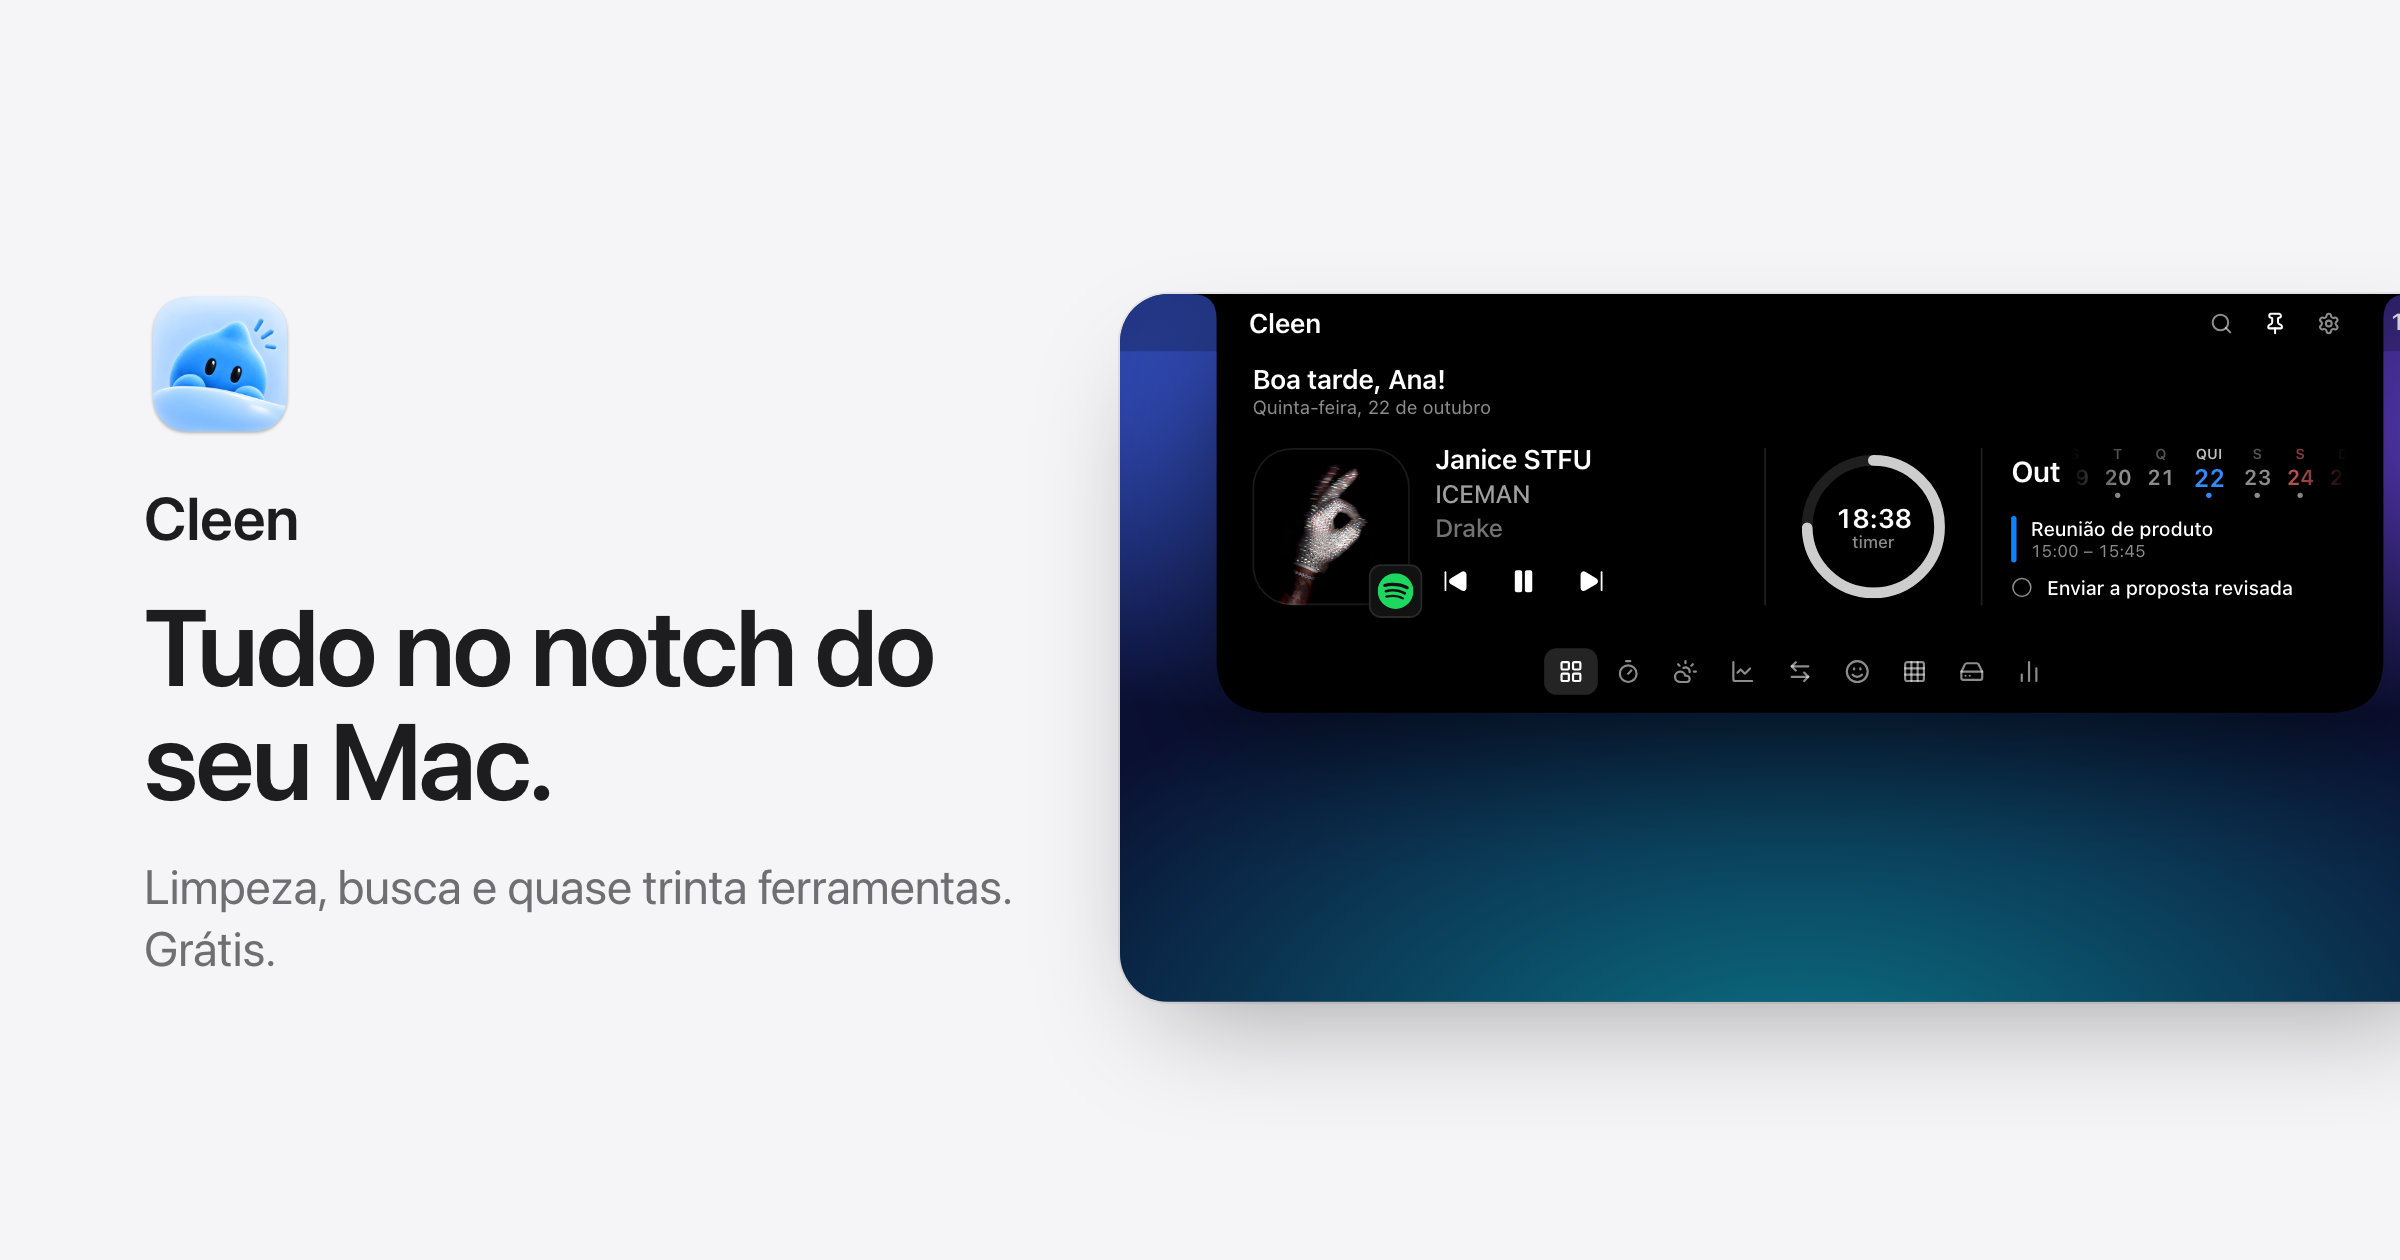
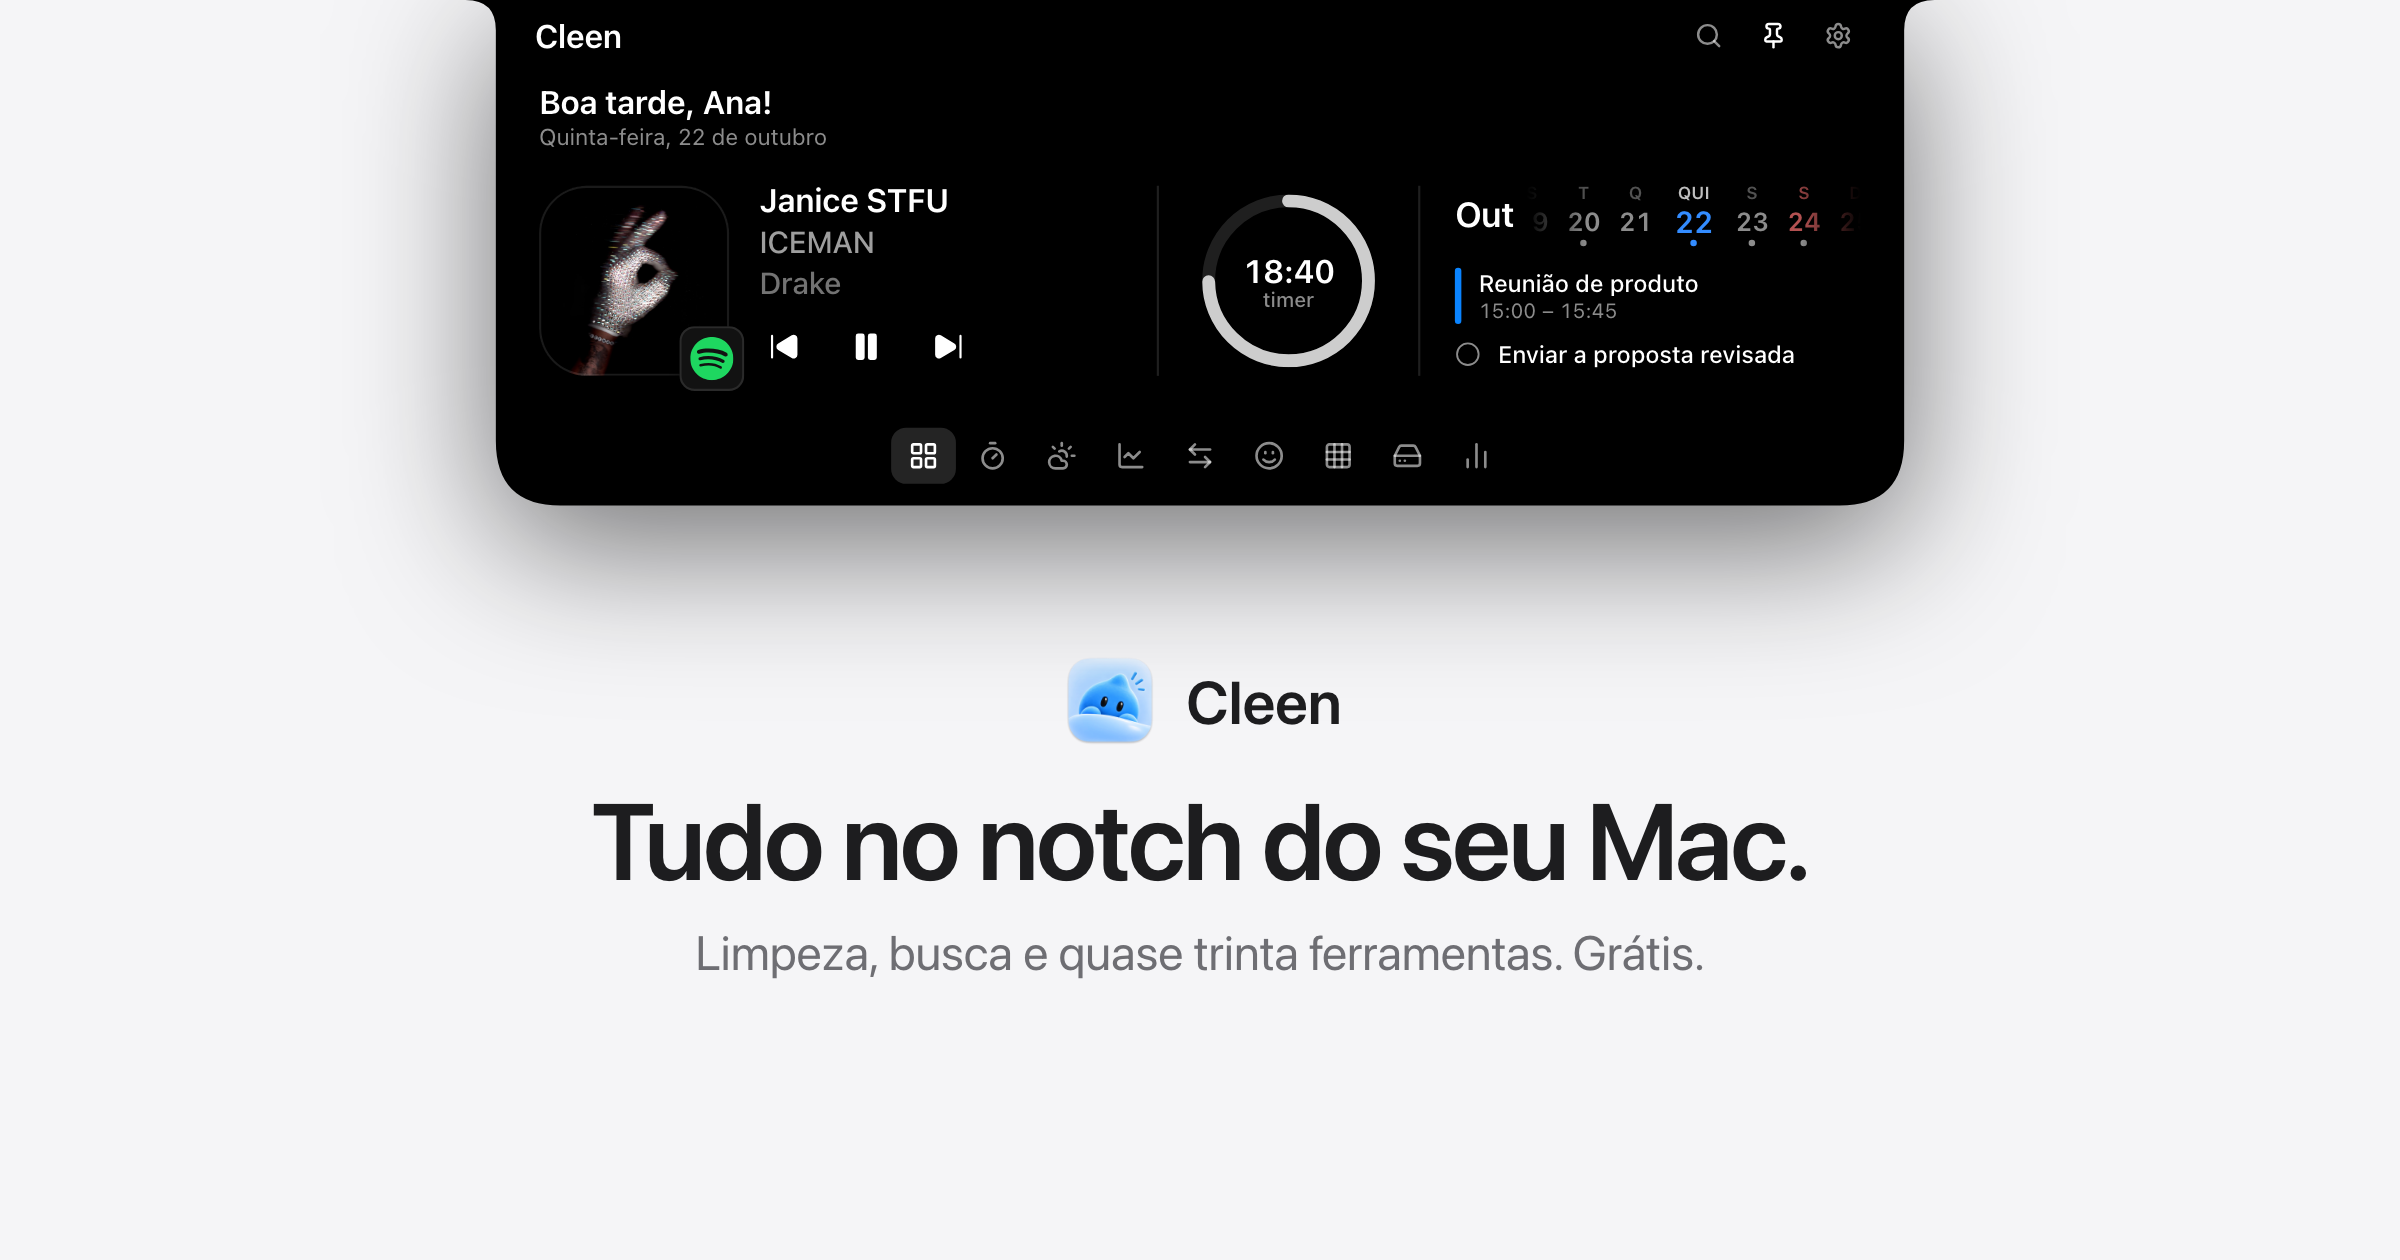
site: imagem de compartilhamento com o notch aberto no topo e o texto centralizado embaixo
A Replica ganha o modo bare (só o painel, sem a tela do Mac em volta).

diff --git a/site/app/og/page.tsx b/site/app/og/page.tsx
@@ -4,26 +4,26 @@ import { Replica } from "@/components/replica/Replica";
 
 /**
  * The share card (public/cleen-og.png), as a page so it's drawn with the site's own
- * replica: the name and line on the left, the open notch on a Mac on the right, cut by
- * the edge like Screen Studio's. Photographed at 1200×630 by scripts/og.mjs; not linked
- * anywhere and kept out of search.
+ * replica: the open notch hanging from the top edge, as if the image were the top of a
+ * Mac screen, and the name and line centered below. Photographed at 1200×630 by
+ * scripts/og.mjs; not linked anywhere and kept out of search.
  */
 export const metadata: Metadata = { title: "Cleen — imagem de compartilhamento", robots: { index: false, follow: false } };
 
 export default function ShareCard() {
   return (
-    <main className="relative h-[630px] w-[1200px] overflow-hidden bg-[#f5f5f7] text-ink">
-      <div className="absolute left-[72px] top-0 flex h-full w-[440px] flex-col justify-center">
-        <Image src="/cleen-icon.png" alt="" width={84} height={84} unoptimized className="-ml-1" />
-        <p className="mt-5 text-[30px] font-semibold leading-none tracking-[-0.01em]">Cleen</p>
-        <h1 className="mt-5 text-[54px] font-semibold leading-[1.06] tracking-[-0.025em]">Tudo no notch do seu Mac.</h1>
-        <p className="mt-5 text-[24px] leading-[1.3] tracking-[-0.005em] text-mute">Limpeza, busca e quase trinta ferramentas. Grátis.</p>
+    <main className="relative flex h-[630px] w-[1200px] flex-col items-center overflow-hidden bg-[#f5f5f7] text-ink">
+      <div className="origin-top scale-[1.08]">
+        <Replica label="O Cleen aberto no notch, no Início" tab="home" bare />
       </div>
-      <div className="og-stage absolute left-[560px] top-[147px] w-[680px] overflow-hidden rounded-[24px] shadow-[0_24px_60px_-20px_rgba(0,0,0,0.35),0_0_0_1px_rgba(0,0,0,0.06)]">
-        <Replica label="O Cleen aberto no notch, no Início" tab="home" />
+      <div className="flex flex-1 flex-col items-center justify-center pb-12 text-center">
+        <div className="flex items-center gap-3">
+          <Image src="/cleen-icon.png" alt="" width={52} height={52} unoptimized />
+          <span className="text-[30px] font-semibold tracking-[-0.01em]">Cleen</span>
+        </div>
+        <h1 className="mt-4 text-[54px] font-semibold leading-[1.05] tracking-[-0.025em]">Tudo no notch do seu Mac.</h1>
+        <p className="mt-3 text-[24px] leading-[1.3] tracking-[-0.005em] text-mute">Limpeza, busca e quase trinta ferramentas. Grátis.</p>
       </div>
-      {/* The demo's play/pause control has no place in a still. */}
-      <style>{`.og-stage button[aria-label$="demonstração"] { display: none; }`}</style>
     </main>
   );
 }

diff --git a/site/components/replica/Replica.tsx b/site/components/replica/Replica.tsx
@@ -1,6 +1,7 @@
 "use client";
 
 import { useState } from "react";
+import { DemoContext } from "./DemoContext";
 import { DemoFrame } from "./DemoFrame";
 import { Panel } from "./Panel";
 import { ReplicaContext } from "./ReplicaContext";
@@ -24,6 +25,7 @@ export function Replica({
   settings = "appearance",
   tone,
   control,
+  bare = false,
 }: {
   label: string;
   tab?: TabId;
@@ -32,6 +34,9 @@ export function Replica({
   settings?: "appearance" | "displays";
   tone?: "blue" | "dusk" | "teal";
   control?: "sm" | "lg";
+  /** Just the panel, hanging from whatever it's placed under: no Mac screen around it
+   *  and no demo playing (the share image). */
+  bare?: boolean;
 }) {
   const [tab, setTab] = useState<TabId>(initialTab);
   const [mode, setMode] = useState<Mode>(initialMode);
@@ -43,8 +48,7 @@ export function Replica({
   const height = mode === "search" || review ? Math.max(size.height, 356) : size.height;
   const title = mode === "search" ? "Buscar" : mode === "settings" ? "Ajustes" : tabTitle(tab);
 
-  return (
-    <DemoFrame label={label} tone={tone} control={control}>
+  const content = (
       <ReplicaContext.Provider value={{ tab, setTab, mode, setMode, size, setSize, review, setReview }}>
         <Panel
           title={title}
@@ -60,6 +64,17 @@ export function Replica({
           {mode === "search" ? <SearchView /> : mode === "settings" ? <SettingsView initial={settings} /> : <Tool key={tab} />}
         </Panel>
       </ReplicaContext.Provider>
+  );
+  if (bare) {
+    return (
+      <div role="img" aria-label={label}>
+        <DemoContext.Provider value={{ playing: false, reduced: true }}>{content}</DemoContext.Provider>
+      </div>
+    );
+  }
+  return (
+    <DemoFrame label={label} tone={tone} control={control}>
+      {content}
     </DemoFrame>
   );
 }

diff --git a/site/app/layout.tsx b/site/app/layout.tsx
@@ -25,9 +25,9 @@ export const metadata: Metadata = {
     title: "Cleen — Tudo no notch.",
     description,
     locale: "pt_BR",
-    images: [{ url: "/cleen-og.png?v=2", width: 1200, height: 630, alt: "O painel do Cleen aberto no notch de um Mac" }],
+    images: [{ url: "/cleen-og.png?v=3", width: 1200, height: 630, alt: "O painel do Cleen aberto no notch de um Mac" }],
   },
-  twitter: { card: "summary_large_image", title: "Cleen — Tudo no notch.", description, images: ["/cleen-og.png?v=2"] },
+  twitter: { card: "summary_large_image", title: "Cleen — Tudo no notch.", description, images: ["/cleen-og.png?v=3"] },
 };
 
 export const viewport: Viewport = { themeColor: "#f5f5f7", colorScheme: "light" };
